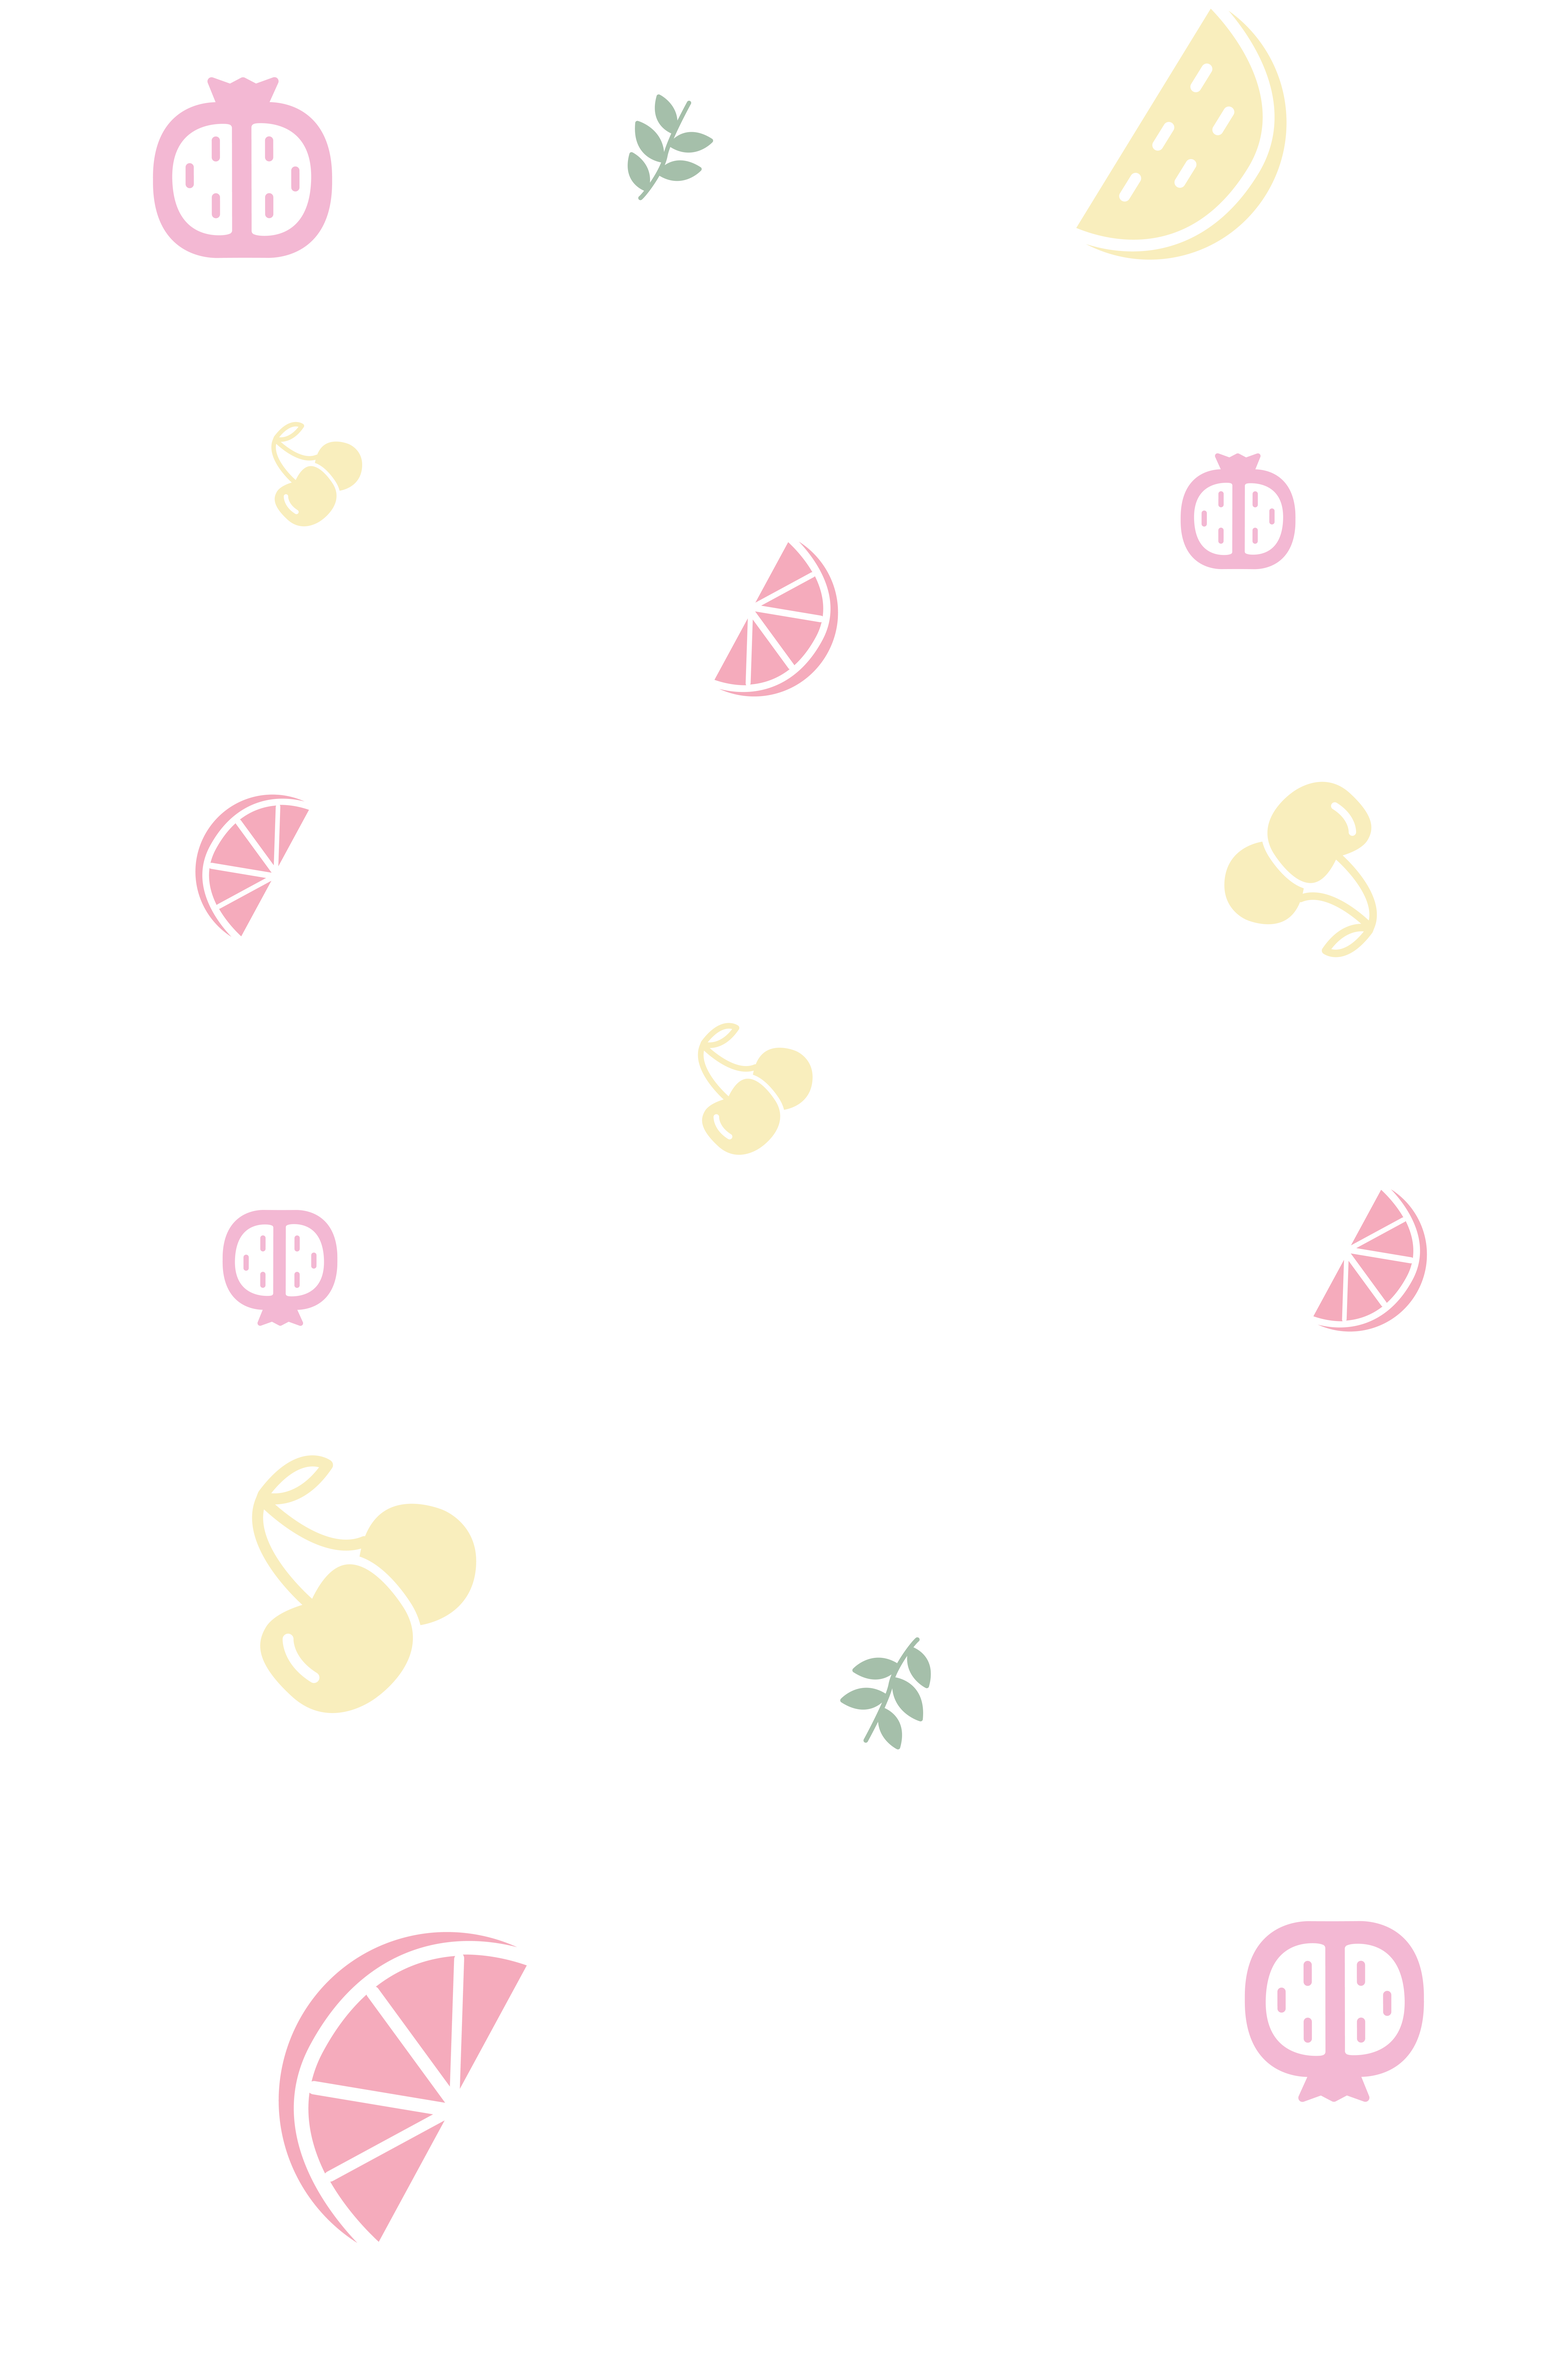
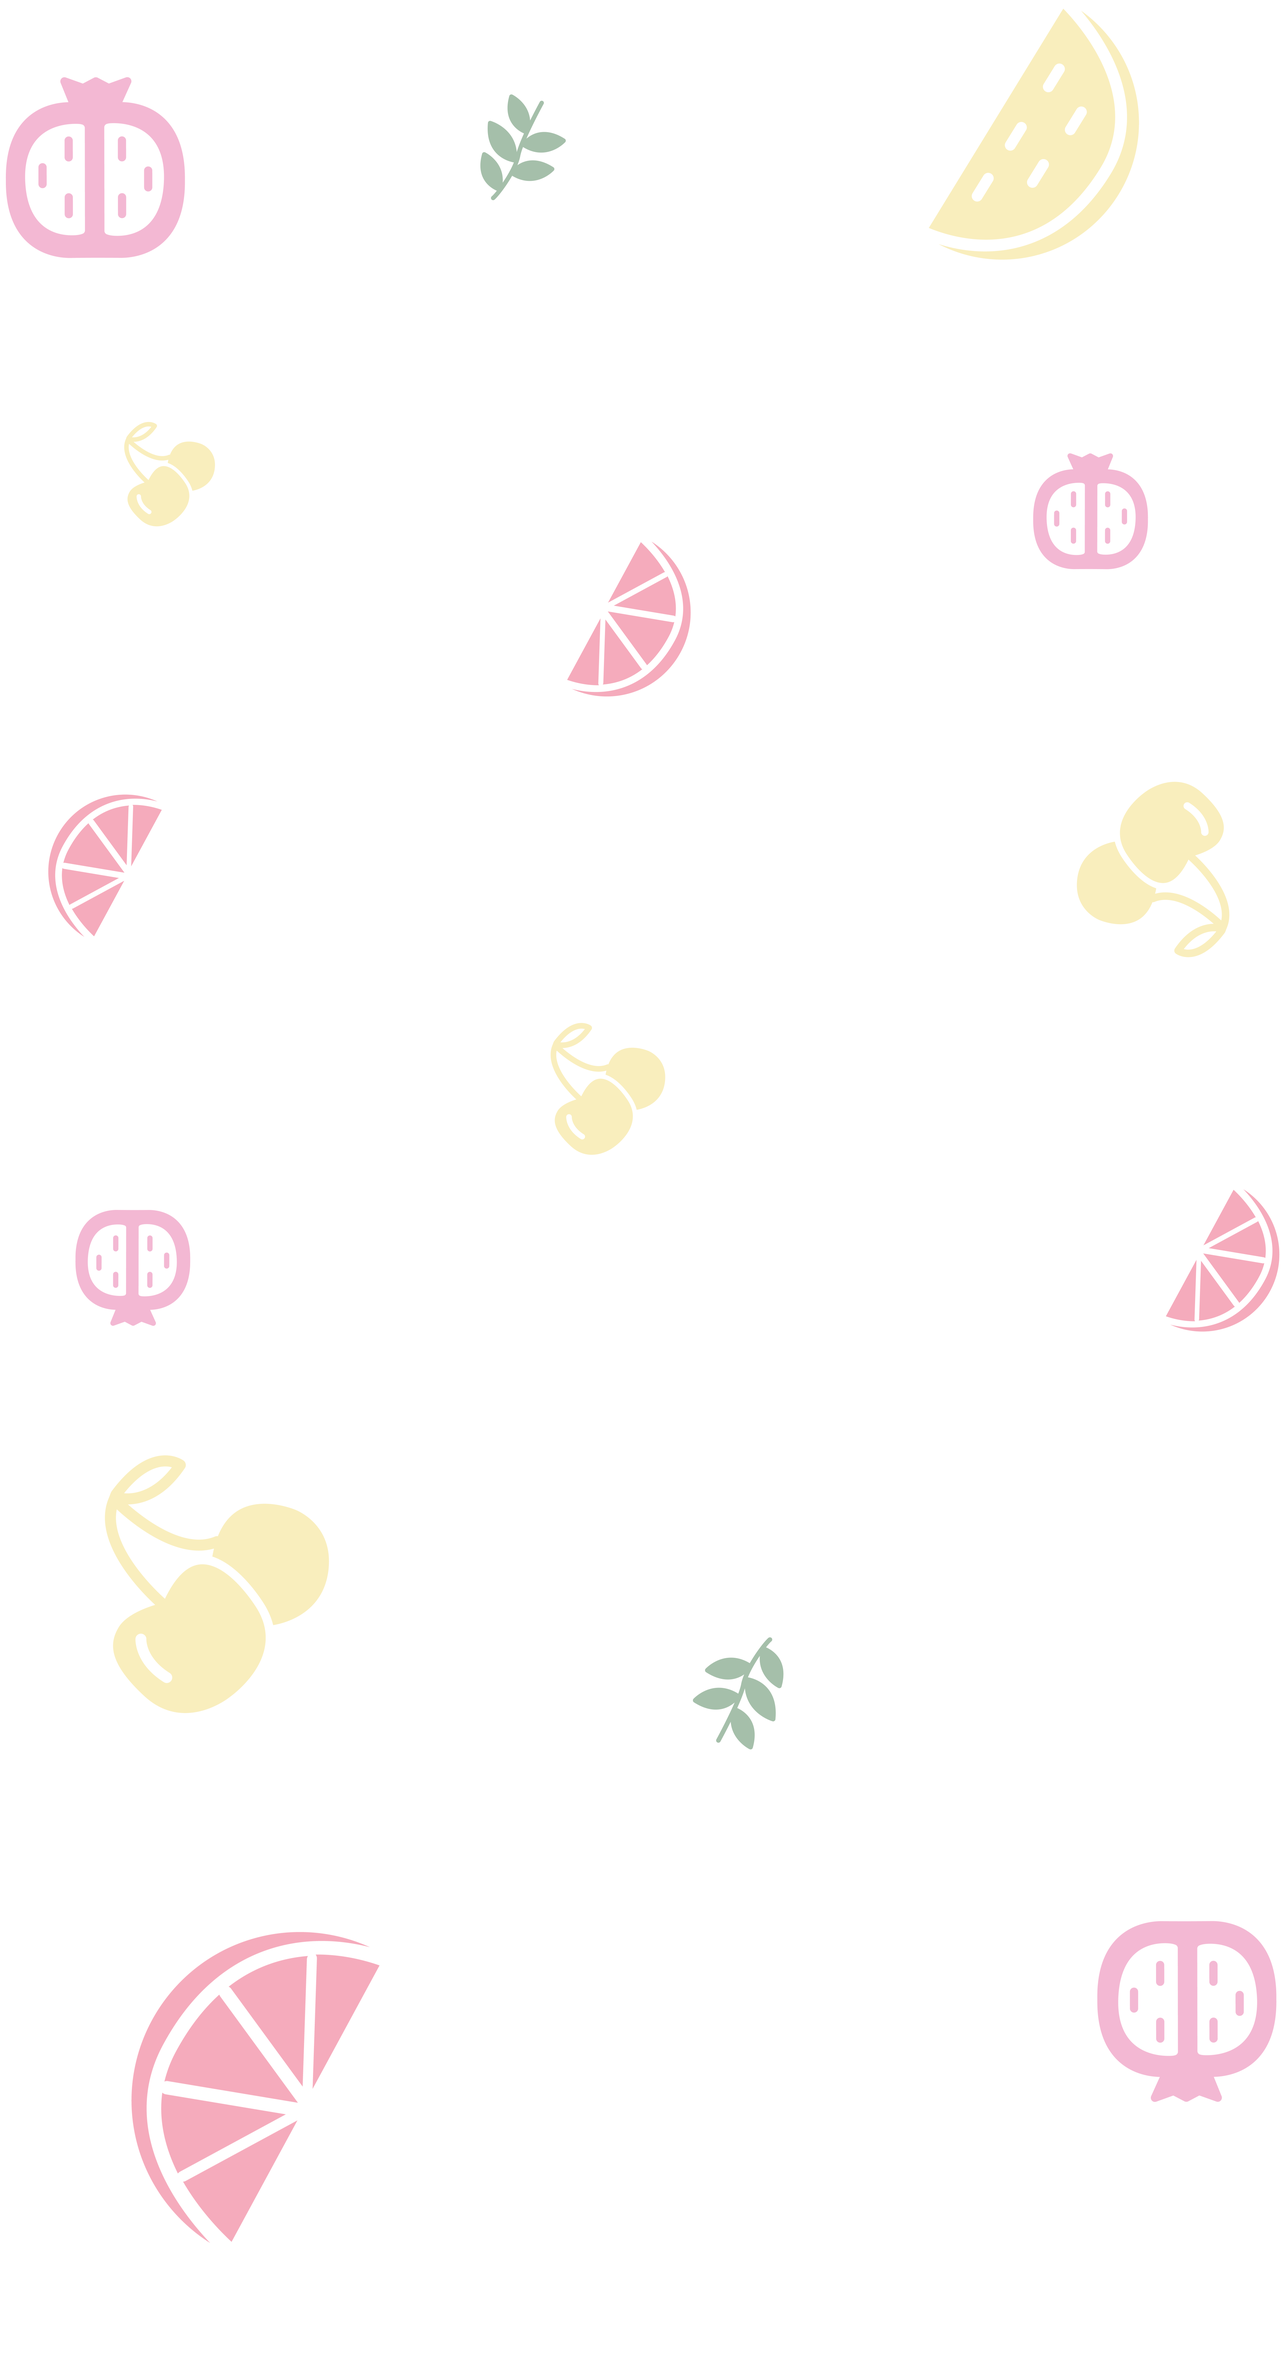
Changed some little things

diff --git a/src/app/header/header.component.scss b/src/app/header/header.component.scss
@@ -38,7 +38,8 @@ header {
   margin: 1.5em 4.5em;
   justify-content: center;
   align-items: center;
-  background: white;
+  background: rgba(255,255,255,0.8);
+  backdrop-filter: blur(10px);
   h1{
     background: -webkit-linear-gradient(0deg, rgba(255,0,0,1) 0%, rgba(255,162,0,1) 45%, rgba(255,162,0,1) 50%, rgba(255,162,0,1) 55%, rgba(255,0,0,1) 100%);
     color: white;
@@ -242,6 +243,28 @@ b{
     box-shadow: inset 0 0 0 1000px rgba(0,0,0,0.3);
   }
 
+  .madein{
+    opacity: 1;
+    display: flex;
+    border-radius: 2em;
+    flex-direction: row;
+    position: absolute;
+    left: 0;
+    right: 0;
+    width: fit-content;
+    height: fit-content;
+    padding: 0.5em 1em;
+    margin: 1.5em 4.5em;
+    justify-content: center;
+    align-items: center;
+    background: rgba(255,255,255,0.2);
+    backdrop-filter: blur(5px);
+    h1{
+      background:none;
+      color: white;
+    -webkit-text-fill-color: white;
+    }
+  }
   .madein{
     margin: 2em 1em;
   }

diff --git a/src/app/app.component.scss b/src/app/app.component.scss
@@ -447,14 +447,27 @@ th {
 }
 
 .below{
+  position: relative;
+}
+
+.below:before{
+  content: ' ';
+  display: block;
+  position: absolute;
+  left: 0;
+  top: 0;
+  width: 100%;
+  height: 100%;
+  z-index: -1;
+  opacity: 0.6;
   background-image: url("../assets/fruitbg.png");
   background-repeat: repeat;
   background-size: 100vw;
 }
 
 @media screen and (max-width: 950px) {
-  .below{
-    background-size: 100vw;
+  .below:before{
+    background-size: 200vw;
   }
 }
 
